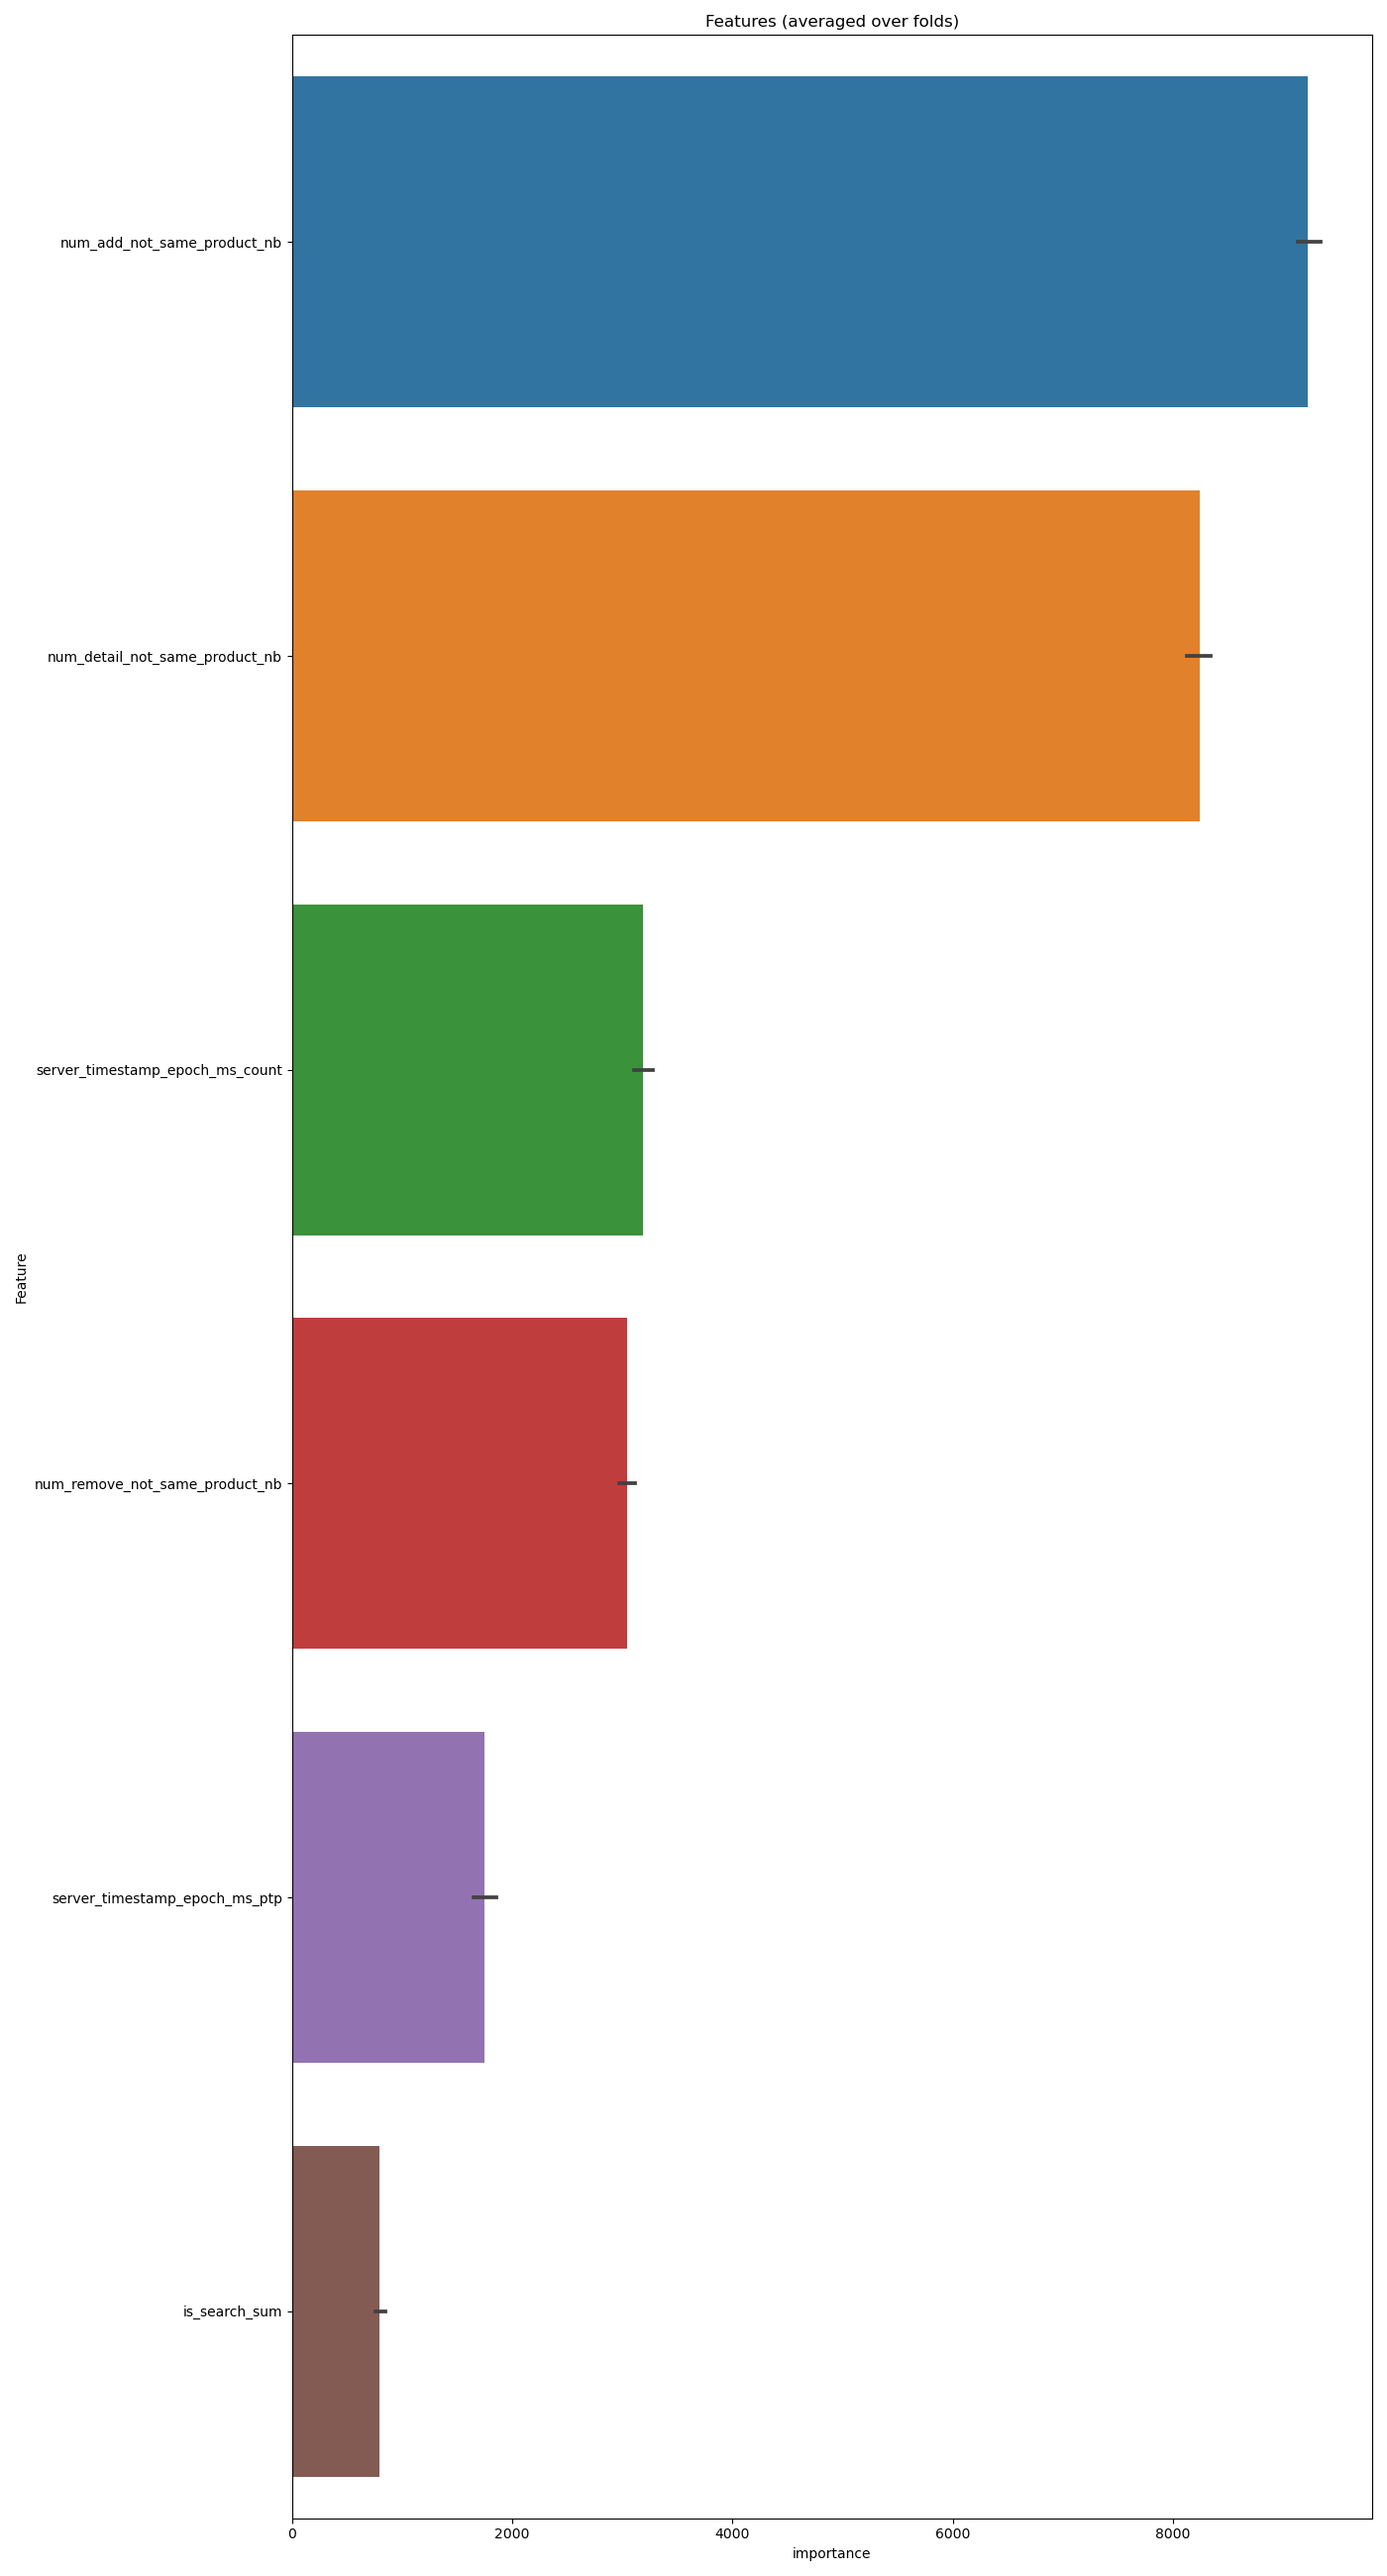
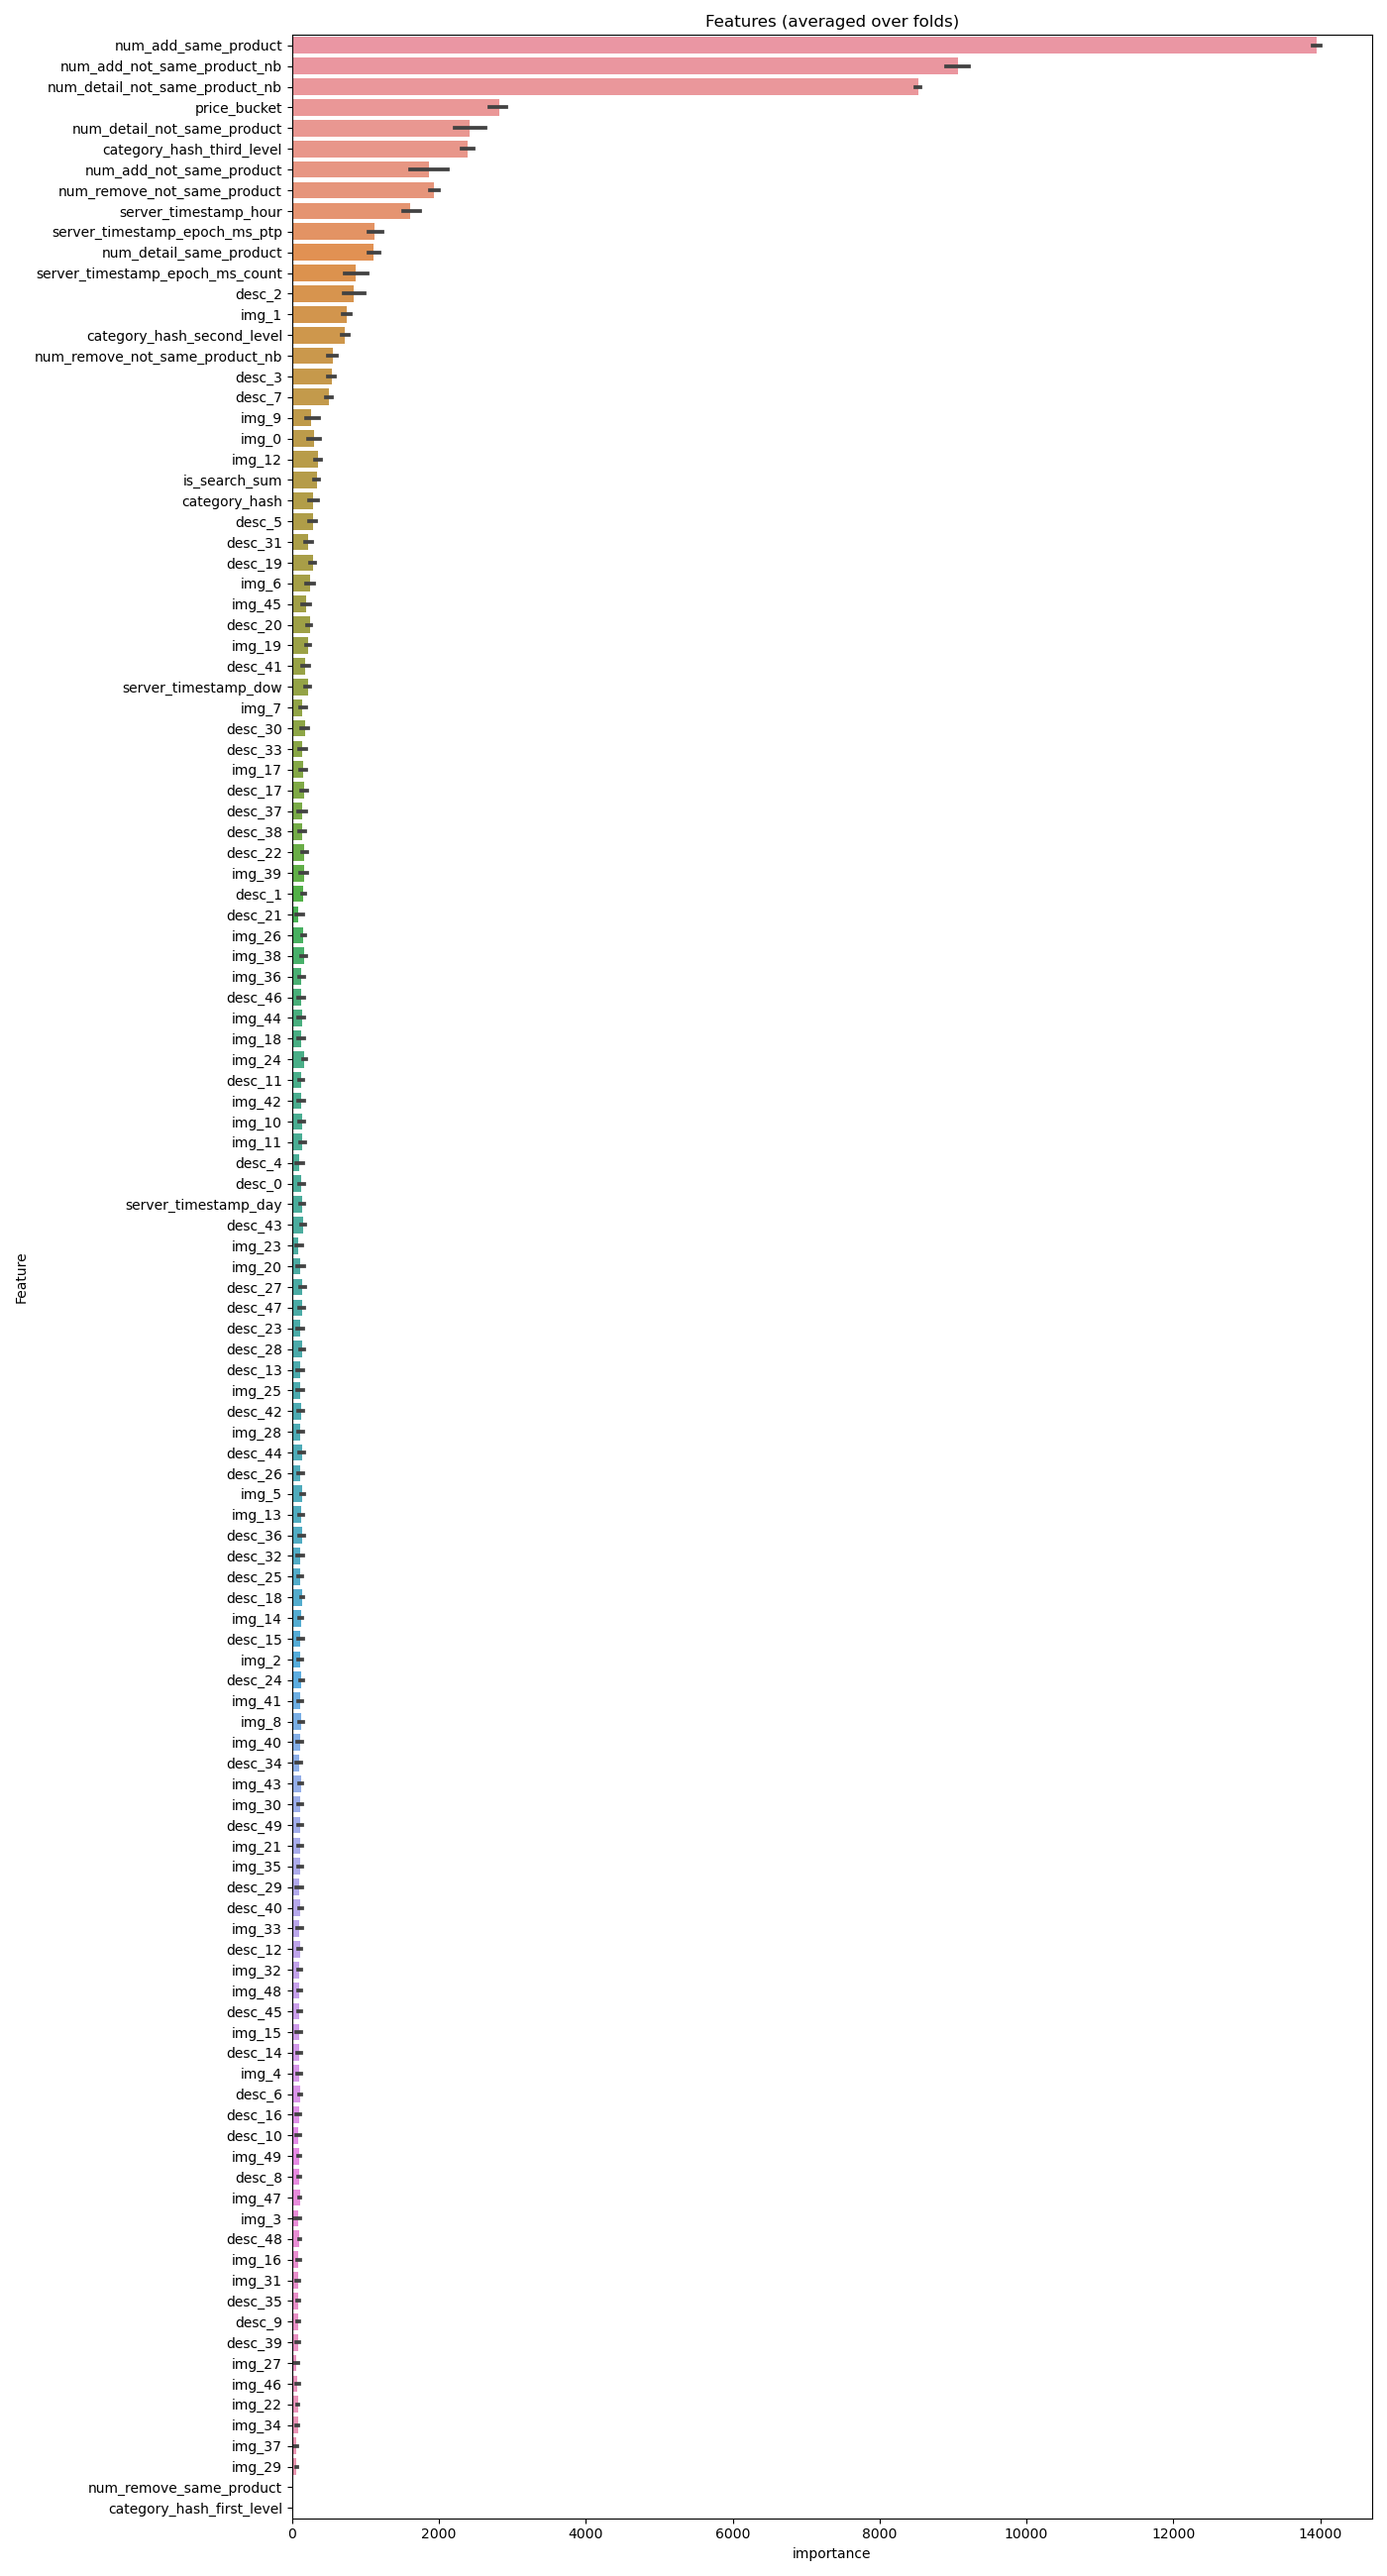
Current possible approach

Changed region(s): [[0.0614, 0.0, 0.9521, 0.9658]]

diff --git a/experiments/prepare_cart_Xy.py b/experiments/prepare_cart_Xy.py
@@ -53,12 +53,12 @@ def extract_product_action_count(df, nb):
         )
 
     return _df[[
-        # 'num_add_same_product',
-        # 'num_detail_same_product',
-        # 'num_remove_same_product',
-        # 'num_add_not_same_product',
-        # 'num_detail_not_same_product',
-        # 'num_remove_not_same_product',
+        'num_add_same_product',
+        'num_detail_same_product',
+        'num_remove_same_product',
+        'num_add_not_same_product',
+        'num_detail_not_same_product',
+        'num_remove_not_same_product',
         'num_add_not_same_product_nb',
         'num_detail_not_same_product_nb',
         'num_remove_not_same_product_nb',
@@ -138,18 +138,16 @@ if __name__ == '__main__':
             'product_action': list
         }).reset_index(drop=True)
         X_train.columns = ["_".join(x) for x in X_train.columns.ravel()]
-        if nb != 0:
-            X_train = pd.concat([X_train, extract_product_action_count(X_train, nb)], axis=1)
-        # X_train = pd.concat([X_train, extract_timestamp(df_train)], axis=1)
+        X_train = pd.concat([X_train, extract_product_action_count(X_train, nb)], axis=1)
+        X_train = pd.concat([X_train, extract_timestamp(df_train)], axis=1)
 
         X_test_nb = X_test.query(f'nb_after_add_max=={nb}').reset_index(drop=True)
-        if nb != 0:
-            X_test_nb = pd.concat([X_test_nb, extract_product_action_count(X_test_nb, nb)], axis=1)
-        # X_test_nb = pd.concat([X_test_nb, extract_timestamp(df_test.query(f'nb_after_add=={nb}'))], axis=1)
+        X_test_nb = pd.concat([X_test_nb, extract_product_action_count(X_test_nb, nb)], axis=1)
+        X_test_nb = pd.concat([X_test_nb, extract_timestamp(df_test.query(f'nb_after_add=={nb}'))], axis=1)
 
-        # _df = extract_product(X_train, X_test_nb, nb)
-        # X_train = pd.concat([X_train, _df[:len(X_train)].reset_index(drop=True)], axis=1)
-        # X_test_nb = pd.concat([X_test_nb, _df[len(X_train):].reset_index(drop=True)], axis=1)
+        _df = extract_product(X_train, X_test_nb, nb)
+        X_train = pd.concat([X_train, _df[:len(X_train)].reset_index(drop=True)], axis=1)
+        X_test_nb = pd.concat([X_test_nb, _df[len(X_train):].reset_index(drop=True)], axis=1)
 
         print(X_train.drop(['product_sku_hash_list', 'product_action_list', 'label_max'], axis=1).shape)
         Data.dump(X_train.drop(['product_sku_hash_list', 'product_action_list', 'label_max'], axis=1),

diff --git a/experiments/weighted_averaging.py b/experiments/weighted_averaging.py
@@ -79,7 +79,7 @@ if __name__ == '__main__':
 
     transformer_preds = [np.load(f'../output/pred/test_pred_all_folds_cart_exp012_{nb}.npy') for nb in range(0, 12, 2)]
     subs = [pd.read_csv(f'../session_rec_sigir_data/prepared/sample_submission_nb{nb}.csv') for nb in range(0, 12, 2)]
-    thrs = [0.95, 0.95, 0.95, 0.95, 0.95, 0.95]
+    # thrs = [0.97, 0.95, 0.95, 0.95, 0.95, 0.95]
     print(thrs)
 
     for idx in range(6):
@@ -93,15 +93,15 @@ if __name__ == '__main__':
     sub.index = sub['session_id_hash_']
     sid2label = sub['label'].to_dict()
 
-    with open('../session_rec_sigir_data/test/intention_test_phase_1.json', 'r') as f:
-        original_test_data = json.load(f)
+    # with open('../session_rec_sigir_data/test/intention_test_phase_1.json', 'r') as f:
+    #     original_test_data = json.load(f)
 
-    for idx, query_label in enumerate(original_test_data):
-        query = query_label["query"]
-        session_id_hash = query[0]["session_id_hash"]
-        original_test_data[idx]["label"] = sid2label[session_id_hash]
+    # for idx, query_label in enumerate(original_test_data):
+    #     query = query_label["query"]
+    #     session_id_hash = query[0]["session_id_hash"]
+    #     original_test_data[idx]["label"] = sid2label[session_id_hash]
 
-    outfile_path = Path('../output/submissions') / "submission.json"
-    with open(outfile_path, 'w') as outfile:
-        json.dump(original_test_data, outfile)
-    submission(outfile_path, 'cart')
+    # outfile_path = Path('../output/submissions') / "submission.json"
+    # with open(outfile_path, 'w') as outfile:
+    #     json.dump(original_test_data, outfile)
+    # submission(outfile_path, 'cart')
